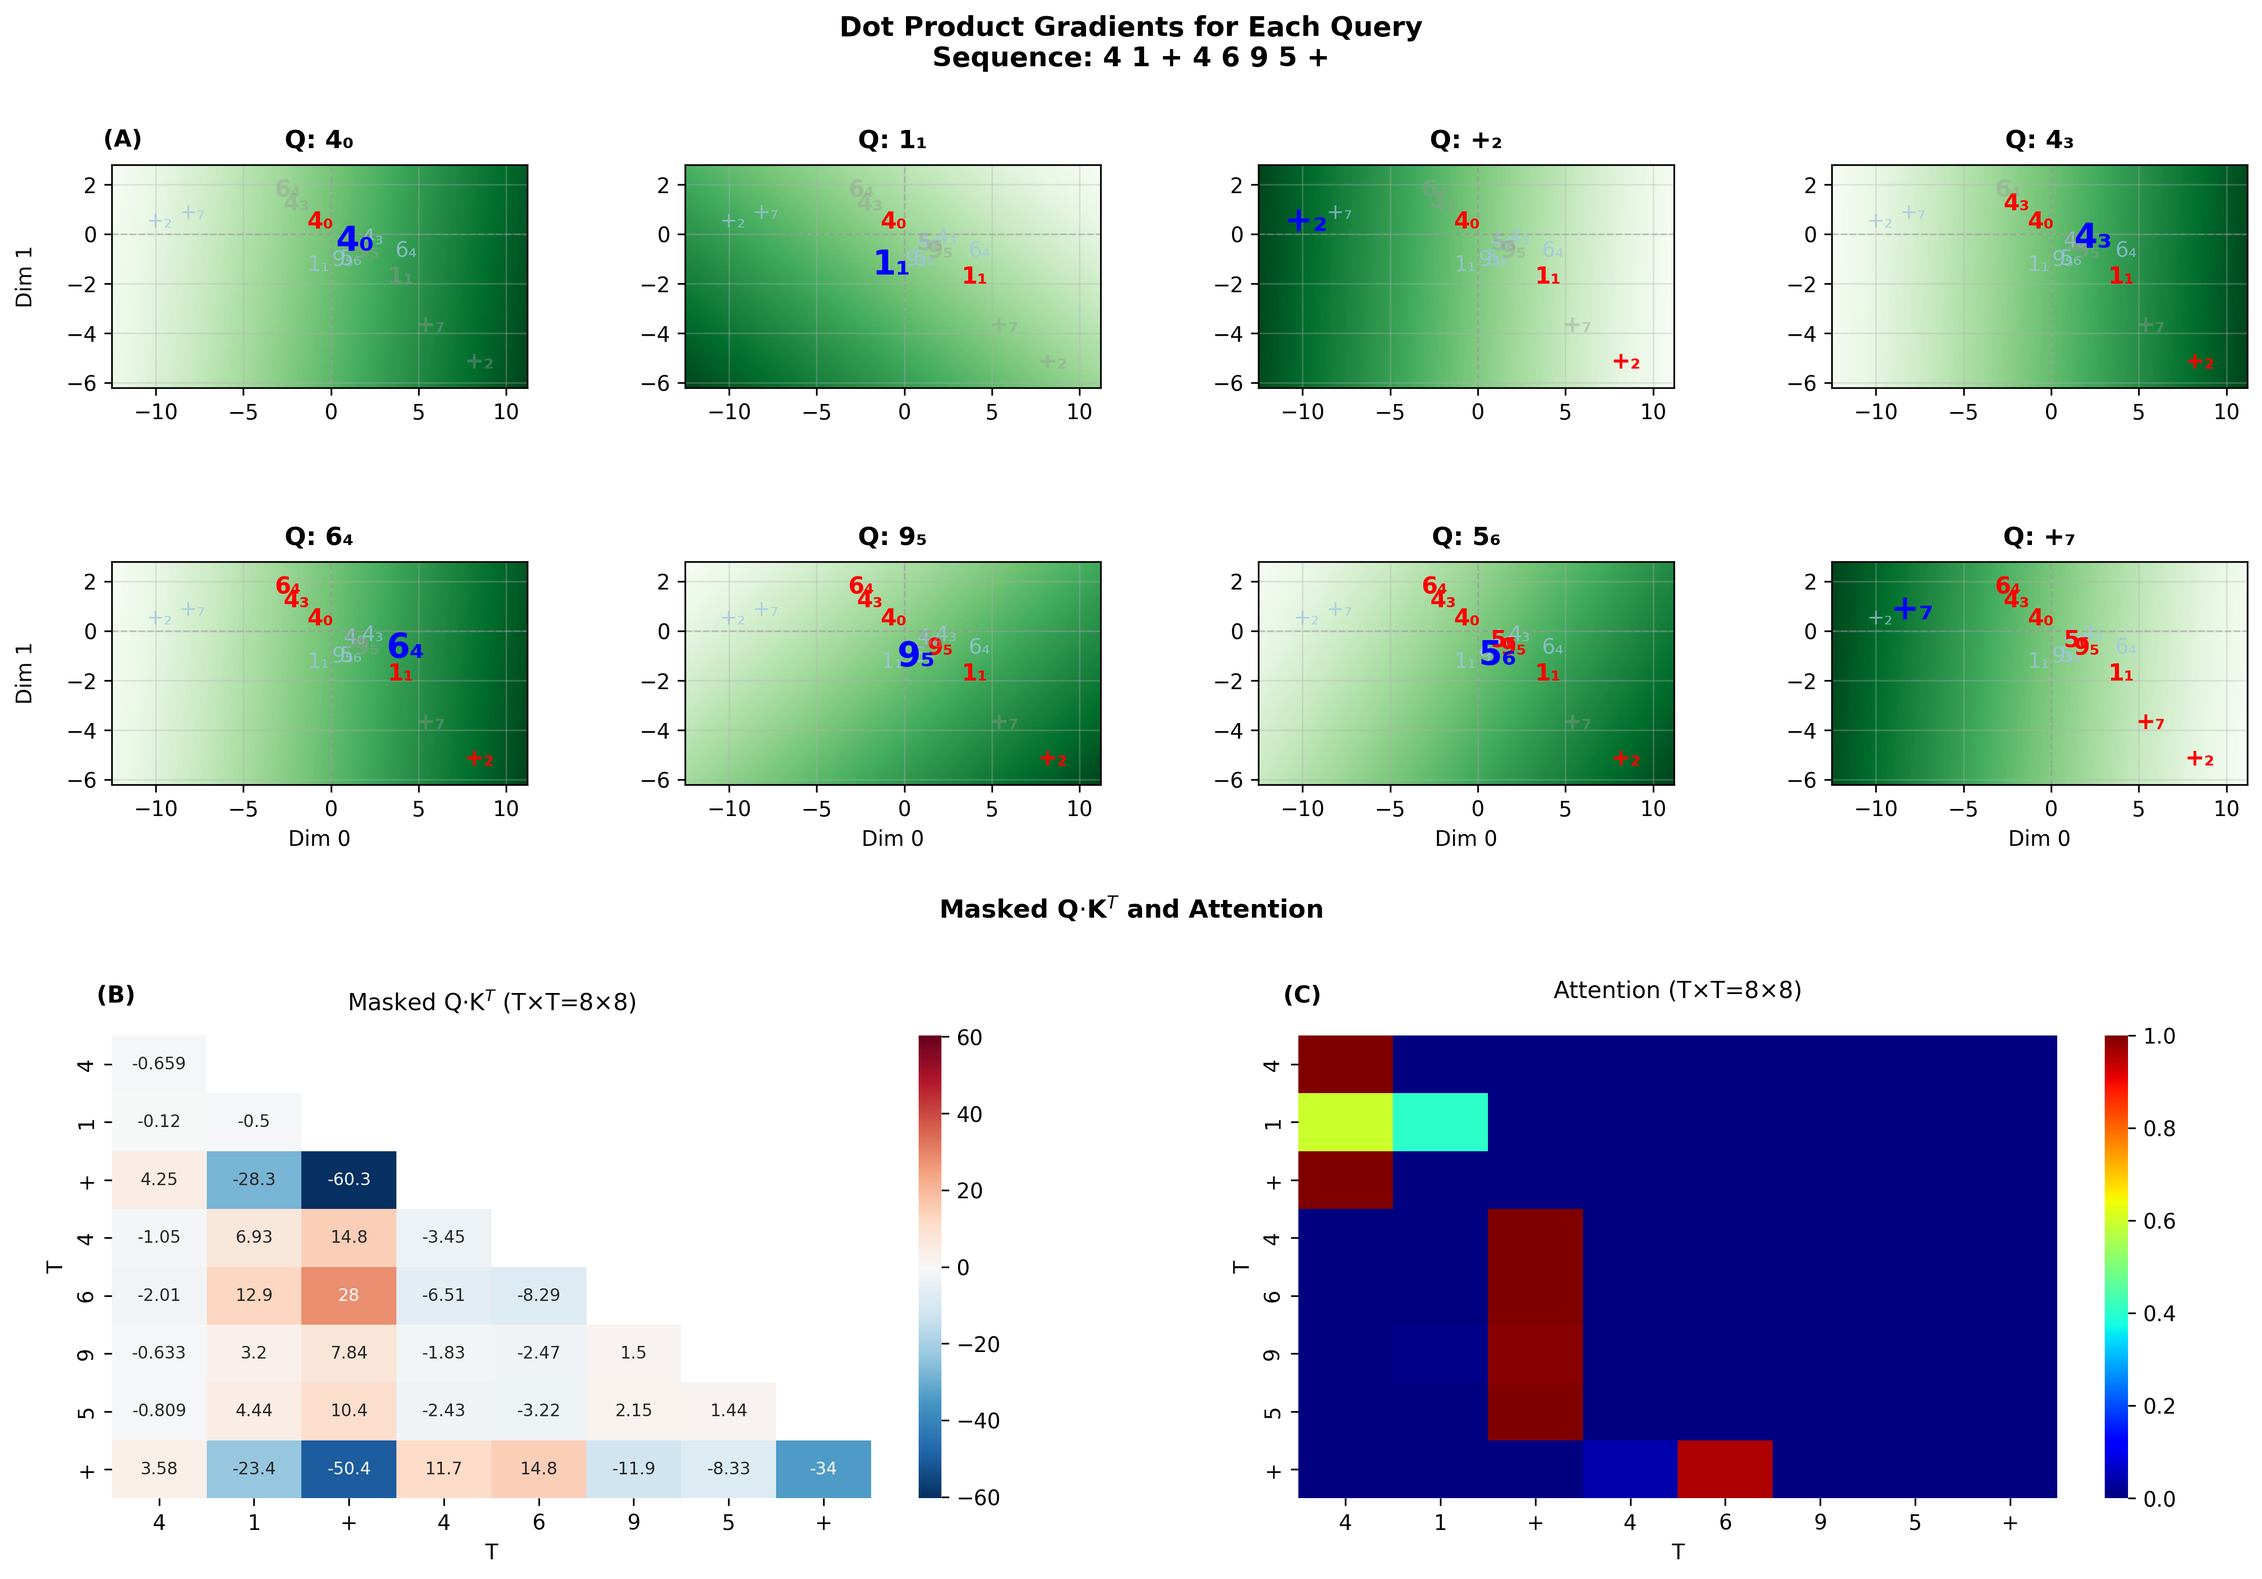
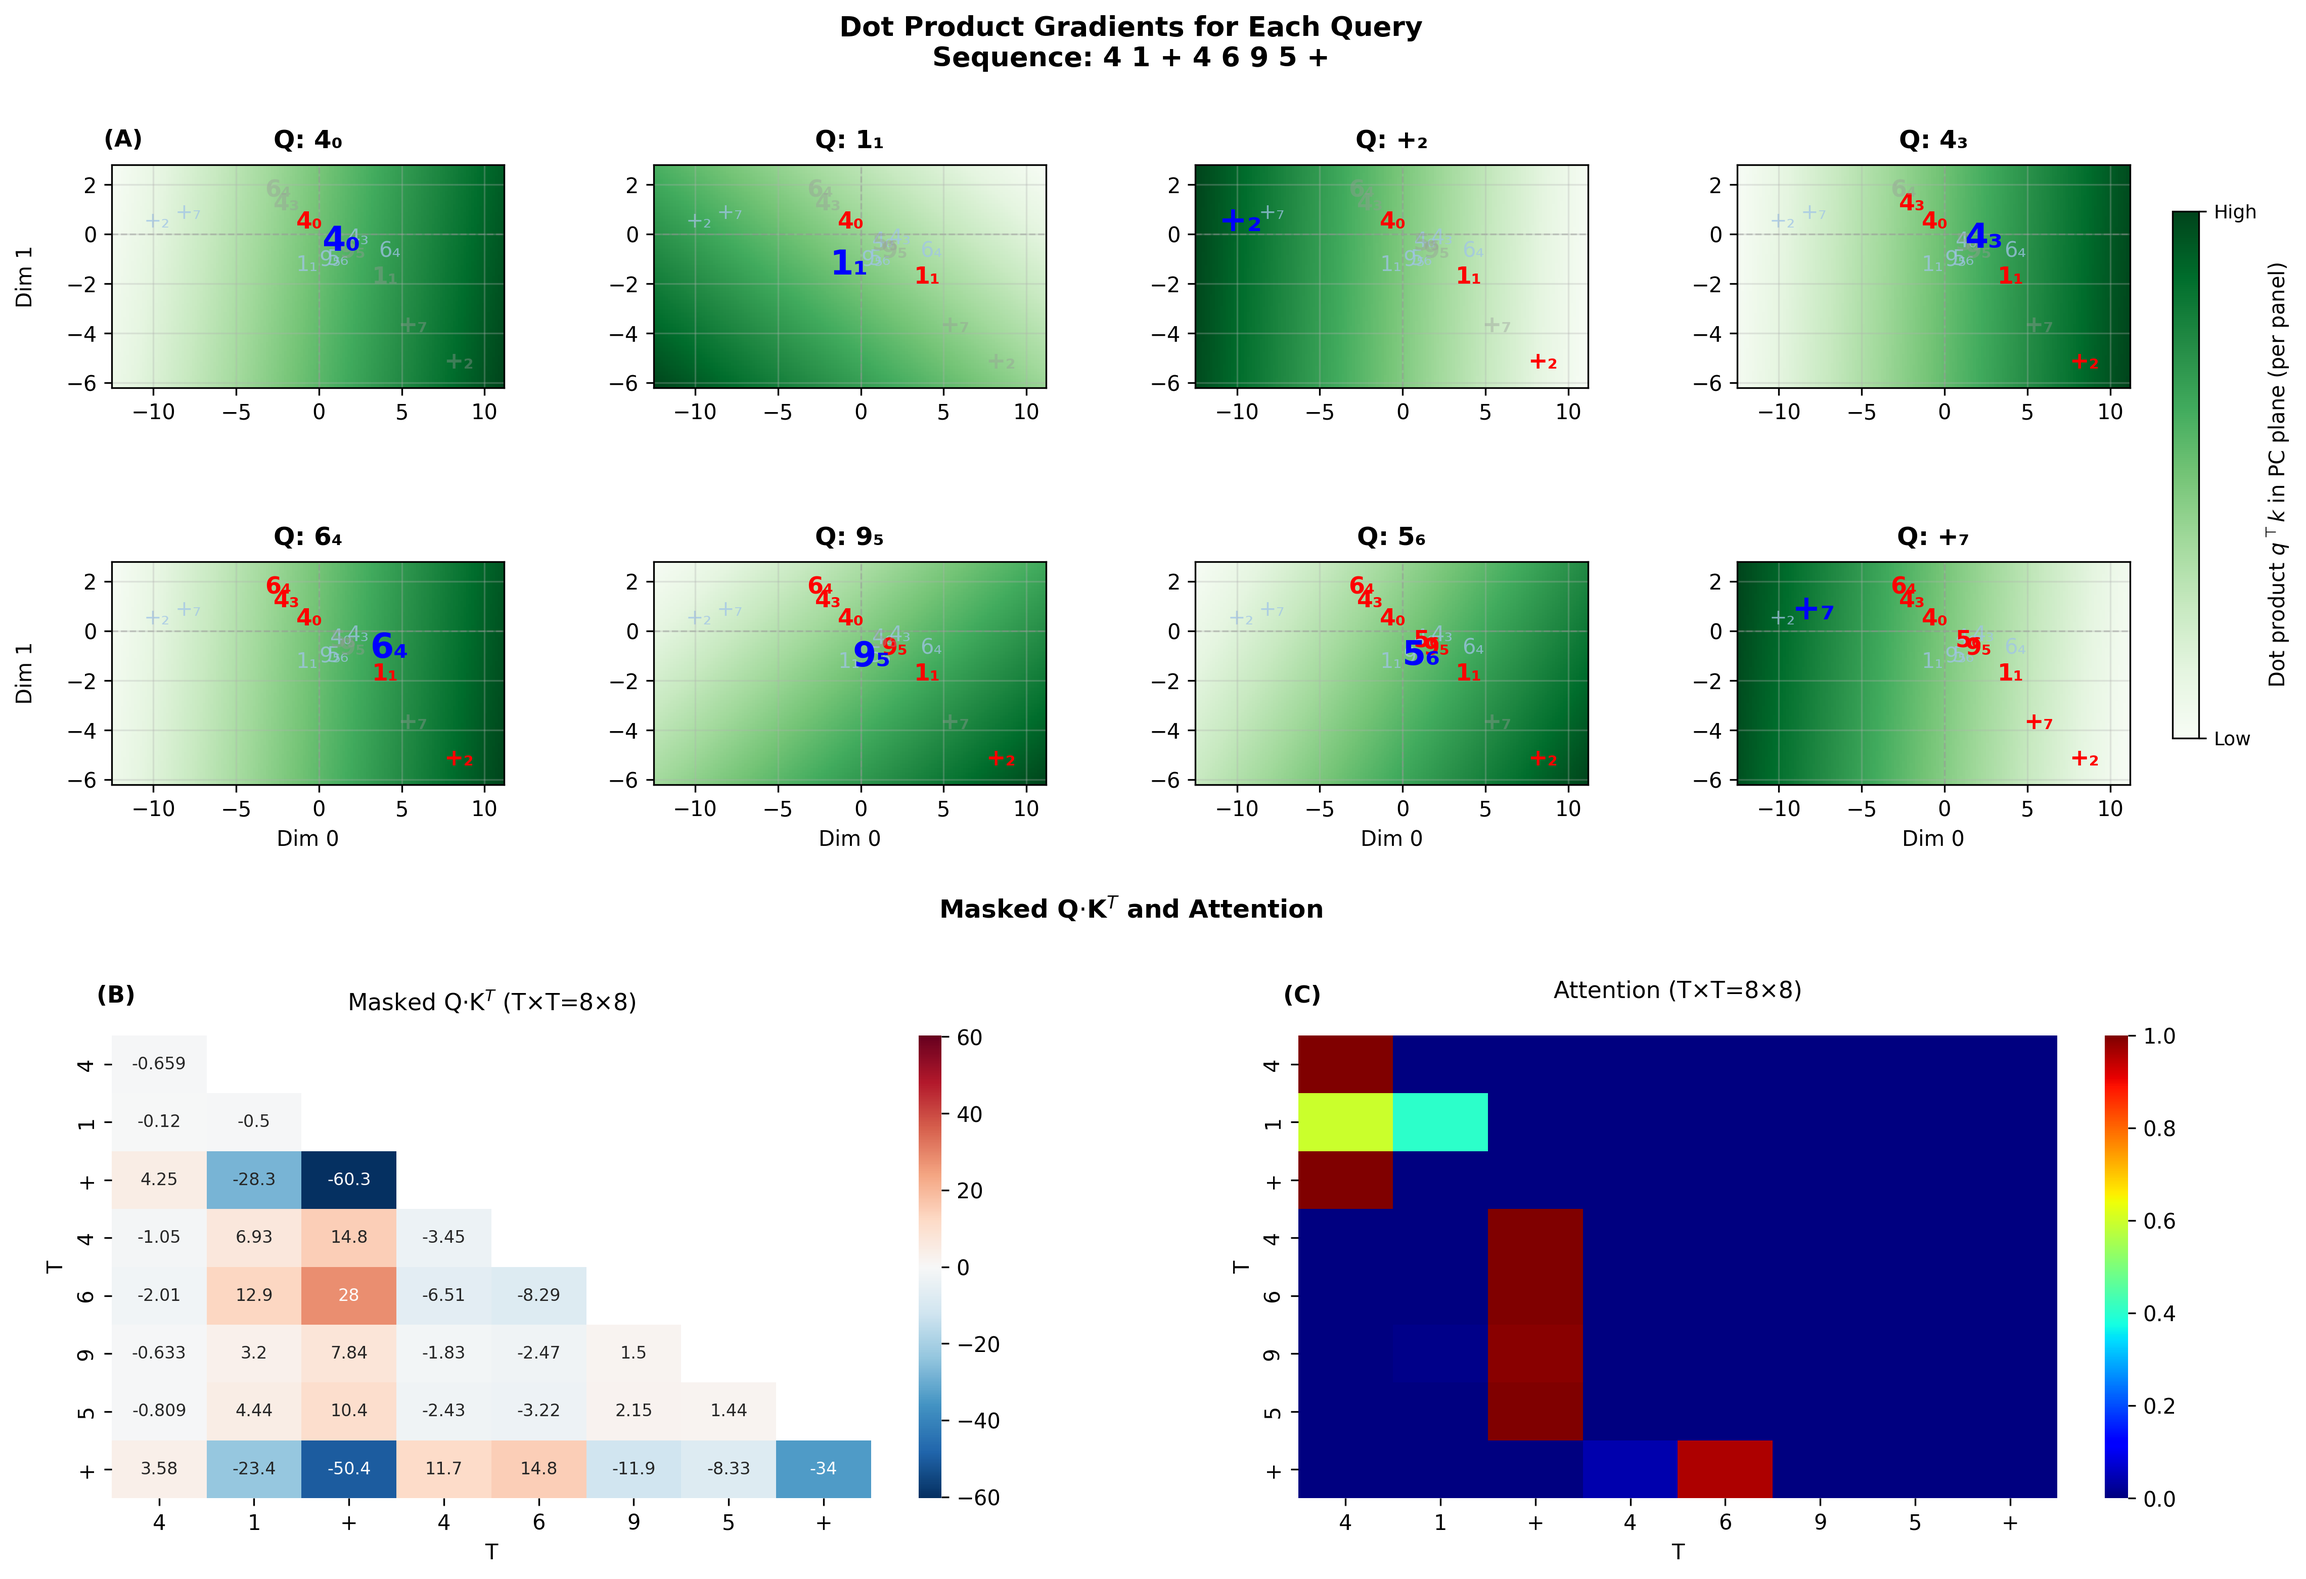
colorbar

diff --git a/plotting/15_q_dot_product_gradients.py b/plotting/15_q_dot_product_gradients.py
@@ -12,6 +12,7 @@ from matplotlib.patches import Patch
 import matplotlib.patheffects as pe
 import matplotlib.text as _mtext
 import matplotlib.colors as mcolors
+from matplotlib.cm import ScalarMappable
 import seaborn as sns
 
 from data import get_batch_from_sequences
@@ -150,8 +151,7 @@ def plot_q_dot_product_gradients(model, X_list, itos, save_path=None, num_sequen
         # Compute dot product grid: for each (x,y), dot product with q_focus
         dot_grid = X_grid * q_focus_2d[0] + Y_grid * q_focus_2d[1]
         
-        # Display background heatmap
-        im = ax.pcolormesh(x_grid, y_grid, dot_grid, cmap='Greens', shading='auto', zorder=0)
+        ax.pcolormesh(x_grid, y_grid, dot_grid, cmap='Greens', shading='auto', zorder=0)
         
         # Add origin lines (dashed, faded)
         ax.axhline(y=0, color='gray', linestyle='--', linewidth=0.8, alpha=0.4, zorder=0.5)
@@ -195,6 +195,20 @@ def plot_q_dot_product_gradients(model, X_list, itos, save_path=None, num_sequen
         ax.grid(True, alpha=0.3)
         # ax.set_aspect('equal', adjustable='box')
         ax.tick_params(axis='y', left=True, right=False, labelleft=True, labelright=False)
+
+    _cbar_fs = 9 if _u._JOURNAL_MODE else 10
+    _sm_bg = ScalarMappable(norm=mcolors.Normalize(vmin=0, vmax=1), cmap="Greens")
+    _sm_bg.set_array([])
+    _cbar = fig.colorbar(
+        _sm_bg, ax=_grad_axes, fraction=0.035, pad=0.02, shrink=0.85,
+    )
+    _cbar.set_ticks([0.0, 1.0])
+    _cbar.set_ticklabels(["Low", "High"])
+    _cbar.set_label(
+        r"Dot product $q^{\top} k$ in PC plane (per panel)",
+        fontsize=_cbar_fs,
+    )
+    _cbar.ax.tick_params(labelsize=_cbar_fs - 1)
 
     # Block 3: Section title with proper superscript for transpose
     _row_title_fs = 10 if _u._JOURNAL_MODE else 12

diff --git a/Paper.md b/Paper.md
@@ -250,12 +250,12 @@ As we showed earlier, the even, odd and `+` token embeddings are separated from 
 
 ![Sequence Embeddings](plus_last_even/plots/a4/13_sequence_embeddings.png)
 ***Figure 12.** Embeddings for the demo sequence `4 1 + 4 6 9 5 +`. **a-c:** Embedding heatmaps for tokens, positions and token+position.
- ** d–f:** 2D scatter plot views of tokens, positions, and token+position combinations, shown over a backdrop of all possible tokens, position, and token+position embeddings (light gray).
+ **d–f:** 2D scatter plot views of tokens, positions, and token+position combinations, shown over a backdrop of all possible tokens, position, and token+position embeddings (light gray).
 
 **Attention.** The model must compute the attention matrix for this sequence by constructing the Q and K matrices and computing pairwise dot product for each key and query within the sequence. Figure 13 shows the Q and K heatmaps for the representation of the tokens within this sequence, and panel c shows these Q and K embedding on the same scatterplot against a backdrop of all 96 possible queries and keys, as in Figure 9.
 
 ![Q/K Attention](plus_last_even/plots/a4/14_qk_attention.png)
-***Figure 13.** Attention computation for the demo sequence. (a) Q heatmap, (b) K heatmap, (c) scatterplot of queries (blue), and keys (red) for tokens within our test sequence against a backdrop of all 96 possible queries and keys(gray).*
+***Figure 13.** Attention computation for the demo sequence. (a) Q heatmap, (b) K heatmap, (c) scatterplot of queries (blue), and keys (red) for tokens within our test sequence against a backdrop of all 96 possible queries and keys (gray).*
 
 For each token within the sequence, the model should compute the dot product between that token's query and the key of every token in the sequence. To illustrate this, for each query we show what the dot product with that query would be at an arbitrary point in space. We then overlay the actual keys within our test sequence over this space for each query, making it clear which keys would produce the largest dot product.
 For each query, we also gray out the keys that come in later positions to show the effect of the causal masking.
